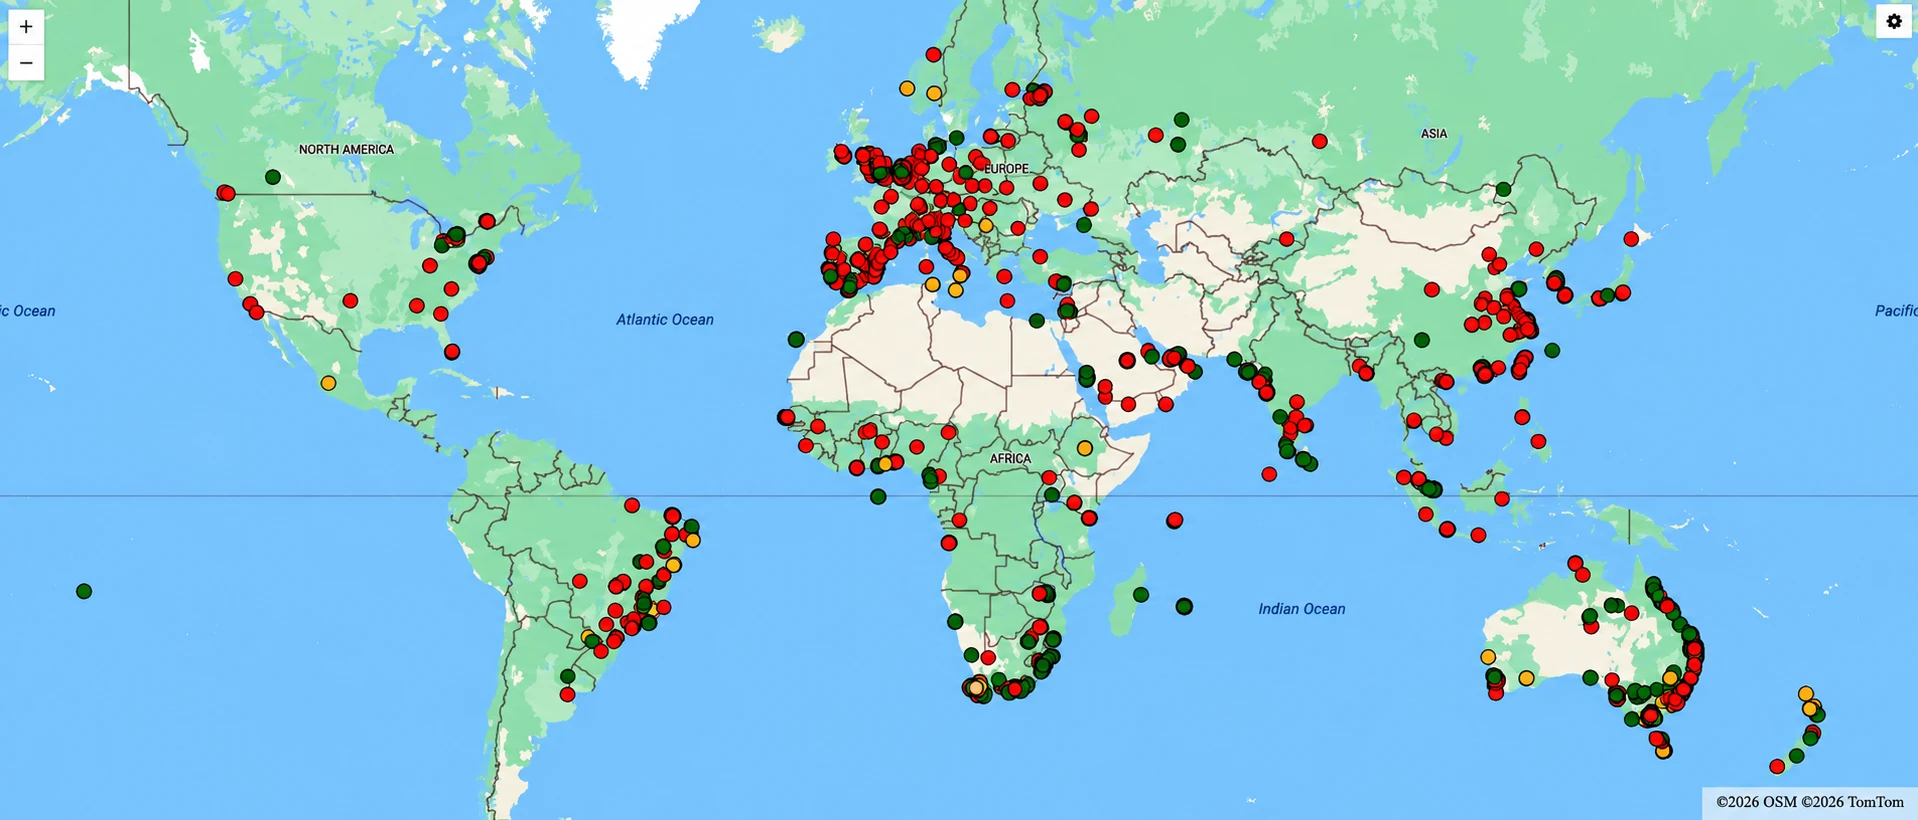
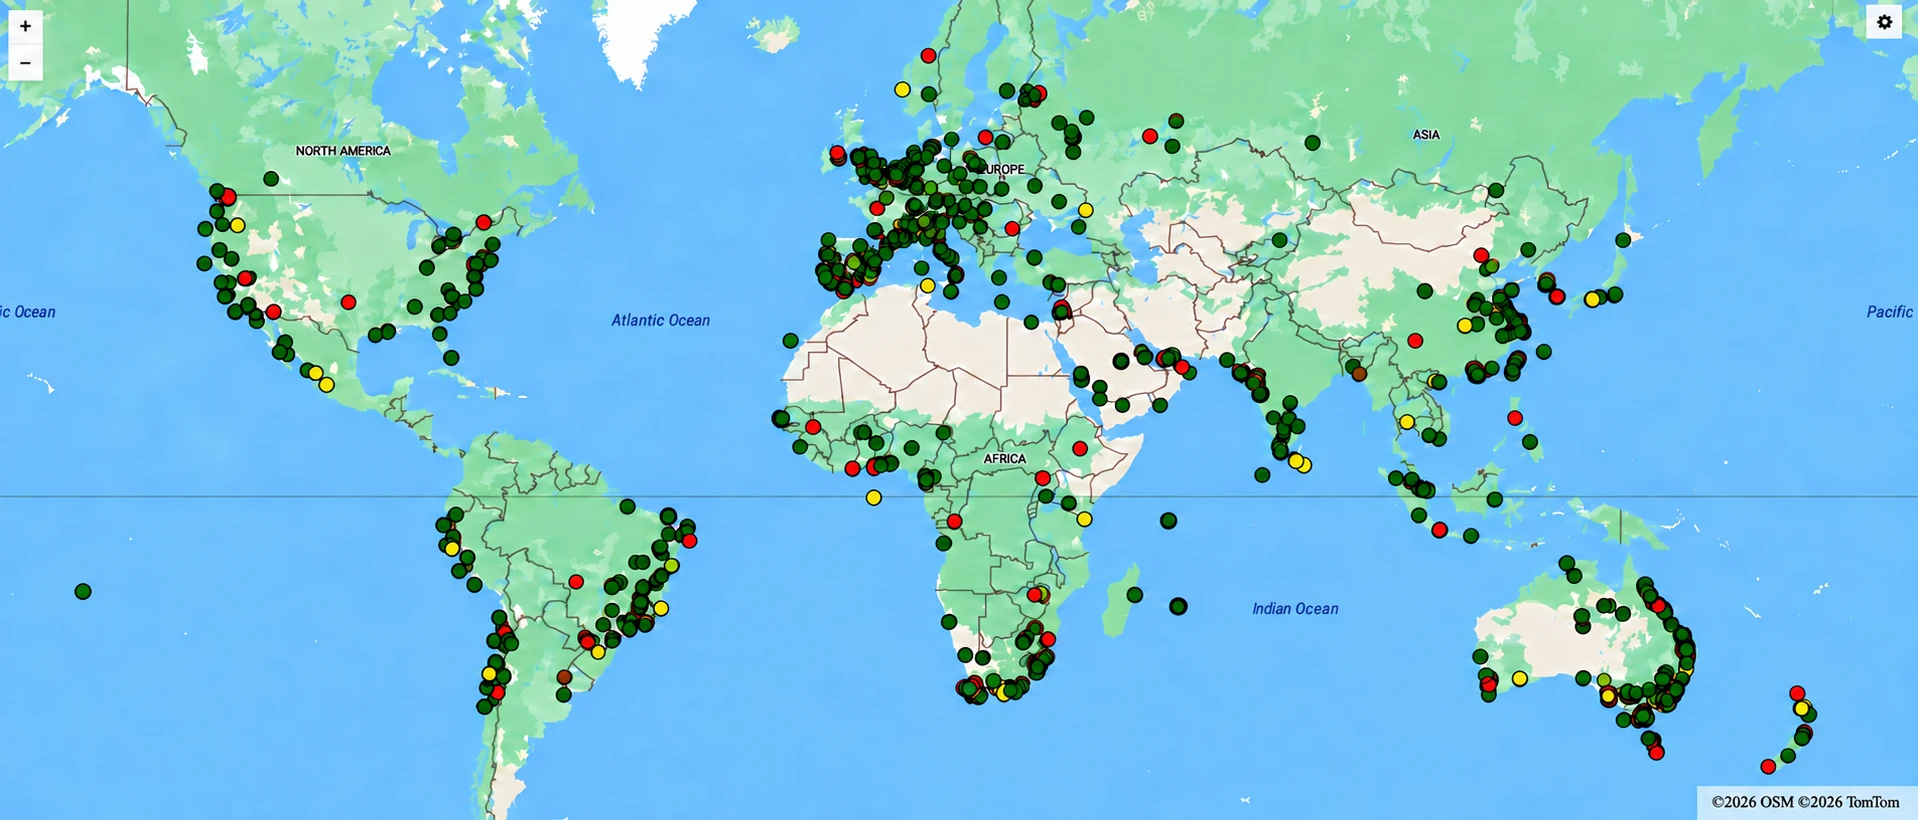
Global reach: replace live device map with updated worldwide view

diff --git a/index.html b/index.html
@@ -297,7 +297,7 @@
       <p class="lead mt-s">With global connectivity, Escavox follows fresh produce across the world's major trade lanes, with deep coverage in the export and import hubs that matter most.</p>
     </div>
     <figure class="reach-map reveal d1">
-      <img src="assets/img/product/live-device-map.webp" alt="World map showing live Escavox-tracked shipments across six continents, each dot a device reporting its shelf-life risk status in real time" loading="lazy">
+      <img src="assets/img/product/live-device-map.webp?v=20260922" alt="World map showing live Escavox-tracked shipments across six continents, each dot a device reporting its shelf-life risk status in real time" loading="lazy">
       <figcaption>
         <span>Live Escavox shipments worldwide, each dot a device reporting in real time.</span>
         <span class="reach-legend"><span class="lg-dot" style="background:#37A768"></span>Low risk<span class="lg-dot" style="background:#E7B34A"></span>Warning<span class="lg-dot" style="background:#CF5547"></span>Critical</span>
